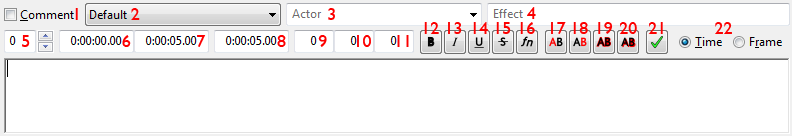
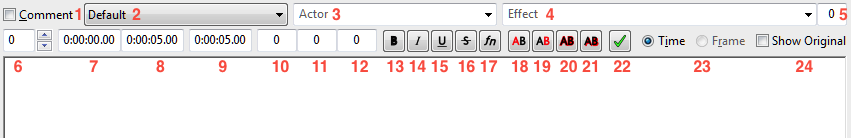
Add the split editbox stuff to the Editing Subtitles page

Changed region(s): [[0.0, 0.0, 1.0, 1.0], [0.9394, 0.0588, 1.0, 0.1471]]

diff --git a/source/docs/3.1/Editing_Subtitles.html.md b/source/docs/3.1/Editing_Subtitles.html.md
@@ -96,7 +96,8 @@ They are:
 1. Effect for this line. There are a few predefined effects which can be
     applied via this field, but renderer support for them is spotty and using
     [[override tags|ASS_Tags]] is nearly always a better idea. This is commonly
-    uses as a metadata field for automation scripts.
+    used as a metadata field for automation scripts.
+1. The number of characters on the longest line of this subtitle.
 1. Layer for this line. If you override positioning with an [[override
     tag|ASS_Tags]] so that two or more lines are displayed on top of each
     other, this field controls which one is drawn where; higher layer numbers
@@ -140,6 +141,32 @@ They are:
 1. Changes display between times and frames. Note that this does not change
     how times are actually stored in the script.
 
+#### Show Original
+
+Checking the Show Original box switches the edit box to the following mode:
+
+![](img/subs_edit_box_original.png)
+
+The top half of the edit box is read-only, and show the text that the currently
+selected line had when it was first selected. This can be useful for
+translating subtitles into another language, or just for editing subtitles.
+
+Revert
+: Replace the text of the line with the text shown in the upper box. A simple
+way to undo all the changes you made to the line if you change your mind.
+
+Clear
+: Clear the line.
+
+Clear Text
+: Clear the text of the line, but leave all override tags in place. Can help
+with translating typeset signs to another language.
+
+Insert Original
+: Insert the original text of the line at the cursor position.
+
+#### Context menu
+
 If you right-click anywhere in the edit box, you get the following menu:
 ![](img/Subs_Edit_Context.png)
 
@@ -151,7 +178,7 @@ the spell checker will suggest some likely alternative. You can also
 set which language it will use for checking from this menu, or add
 words that it doesn't recognize but you know to be correctly spelled to
 the dictionary. For more information on spell checking in Aegisub, see
-the [[Spell Checker]] page.
+the [[Spell Checker|Spell_Checker]] page.
 
 Thesaurus
 : Suggests alternative words similar to the highlighted word.
@@ -176,6 +203,8 @@ Some common controls:
 * To select multiple lines, hold down either Ctrl or Shift and click.
   Ctrl-click selects one more line per click; Shift-click selects all the
   lines between the first clicked and the last clicked.
+* To change the active line shown in the edit box without changing the
+  selection, hold down alt and click on the new line.
 * To sort all lines in the grid, open the _Subtitle_ menu, and under _Sort
   Lines_ select the field to sort the lines on.
 * To change the way [[override tags|ASS_Tags]] are displayed in the grid,
